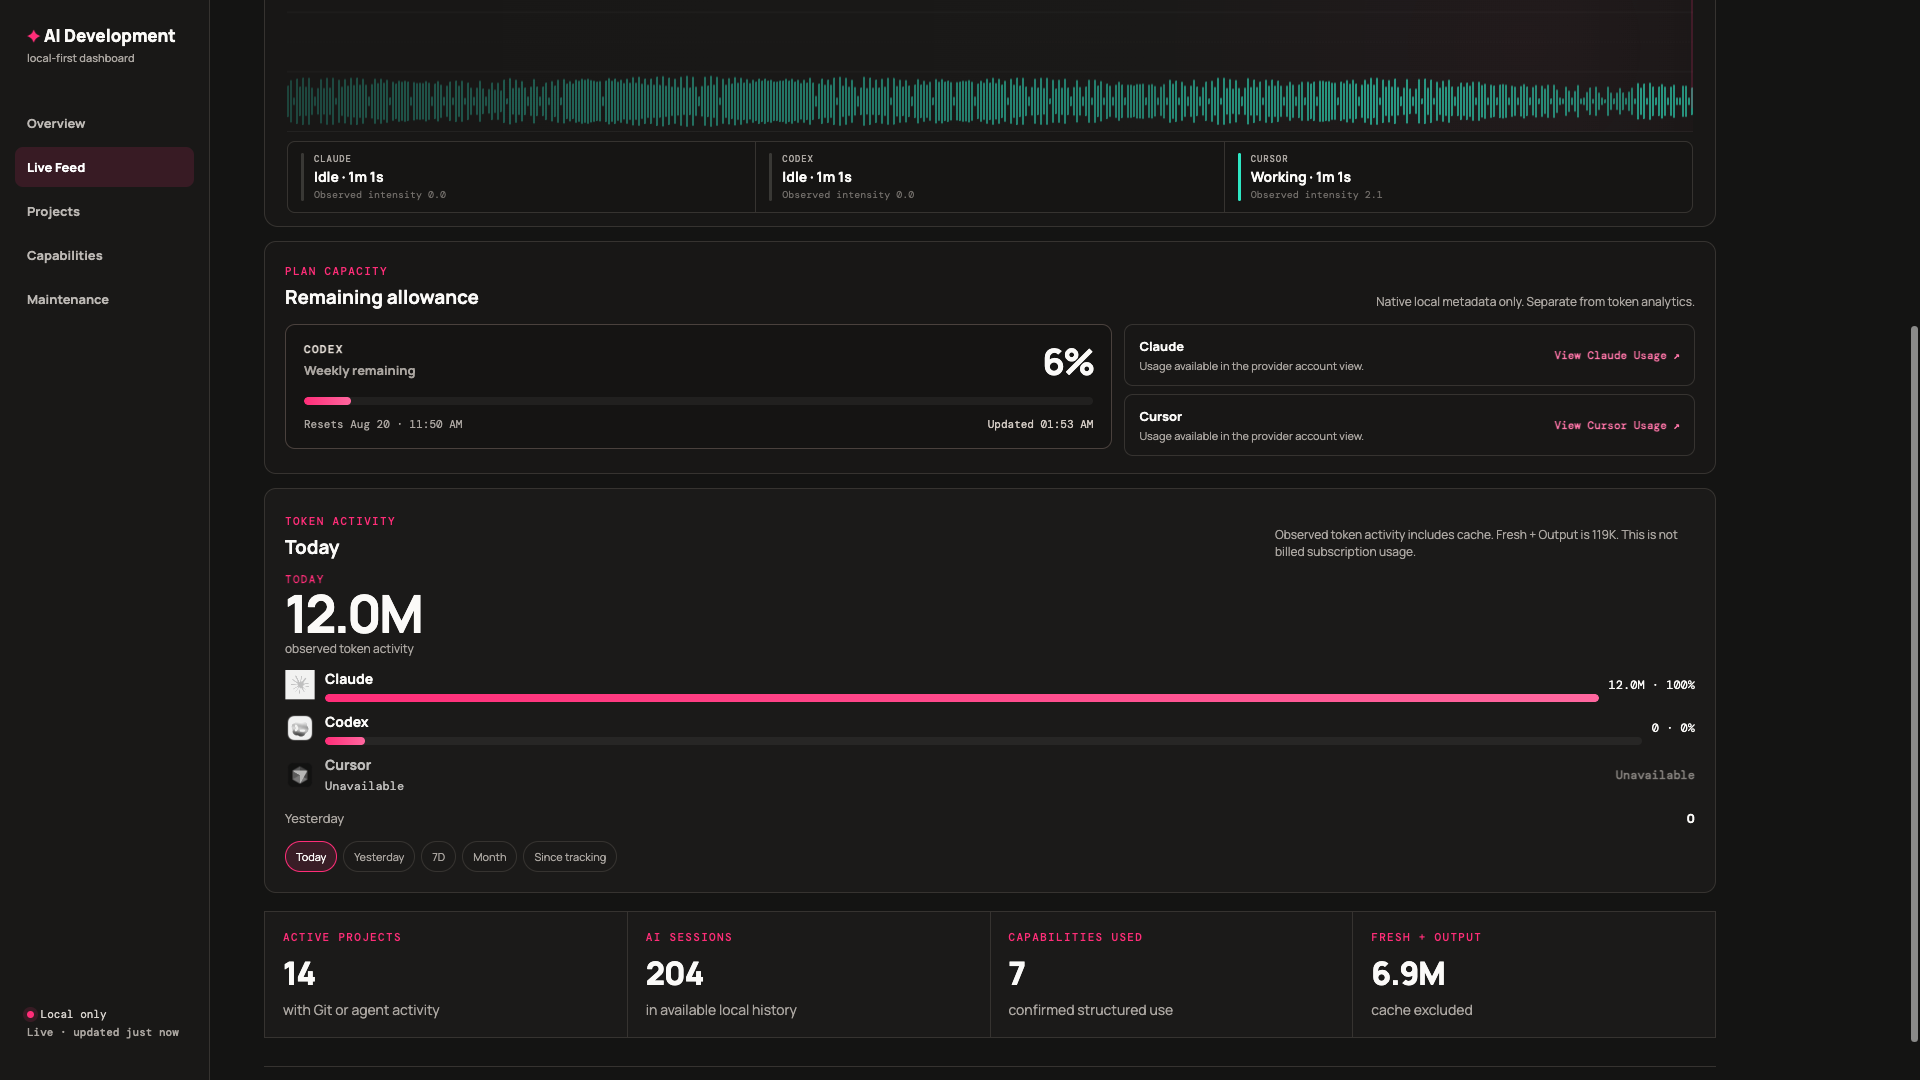
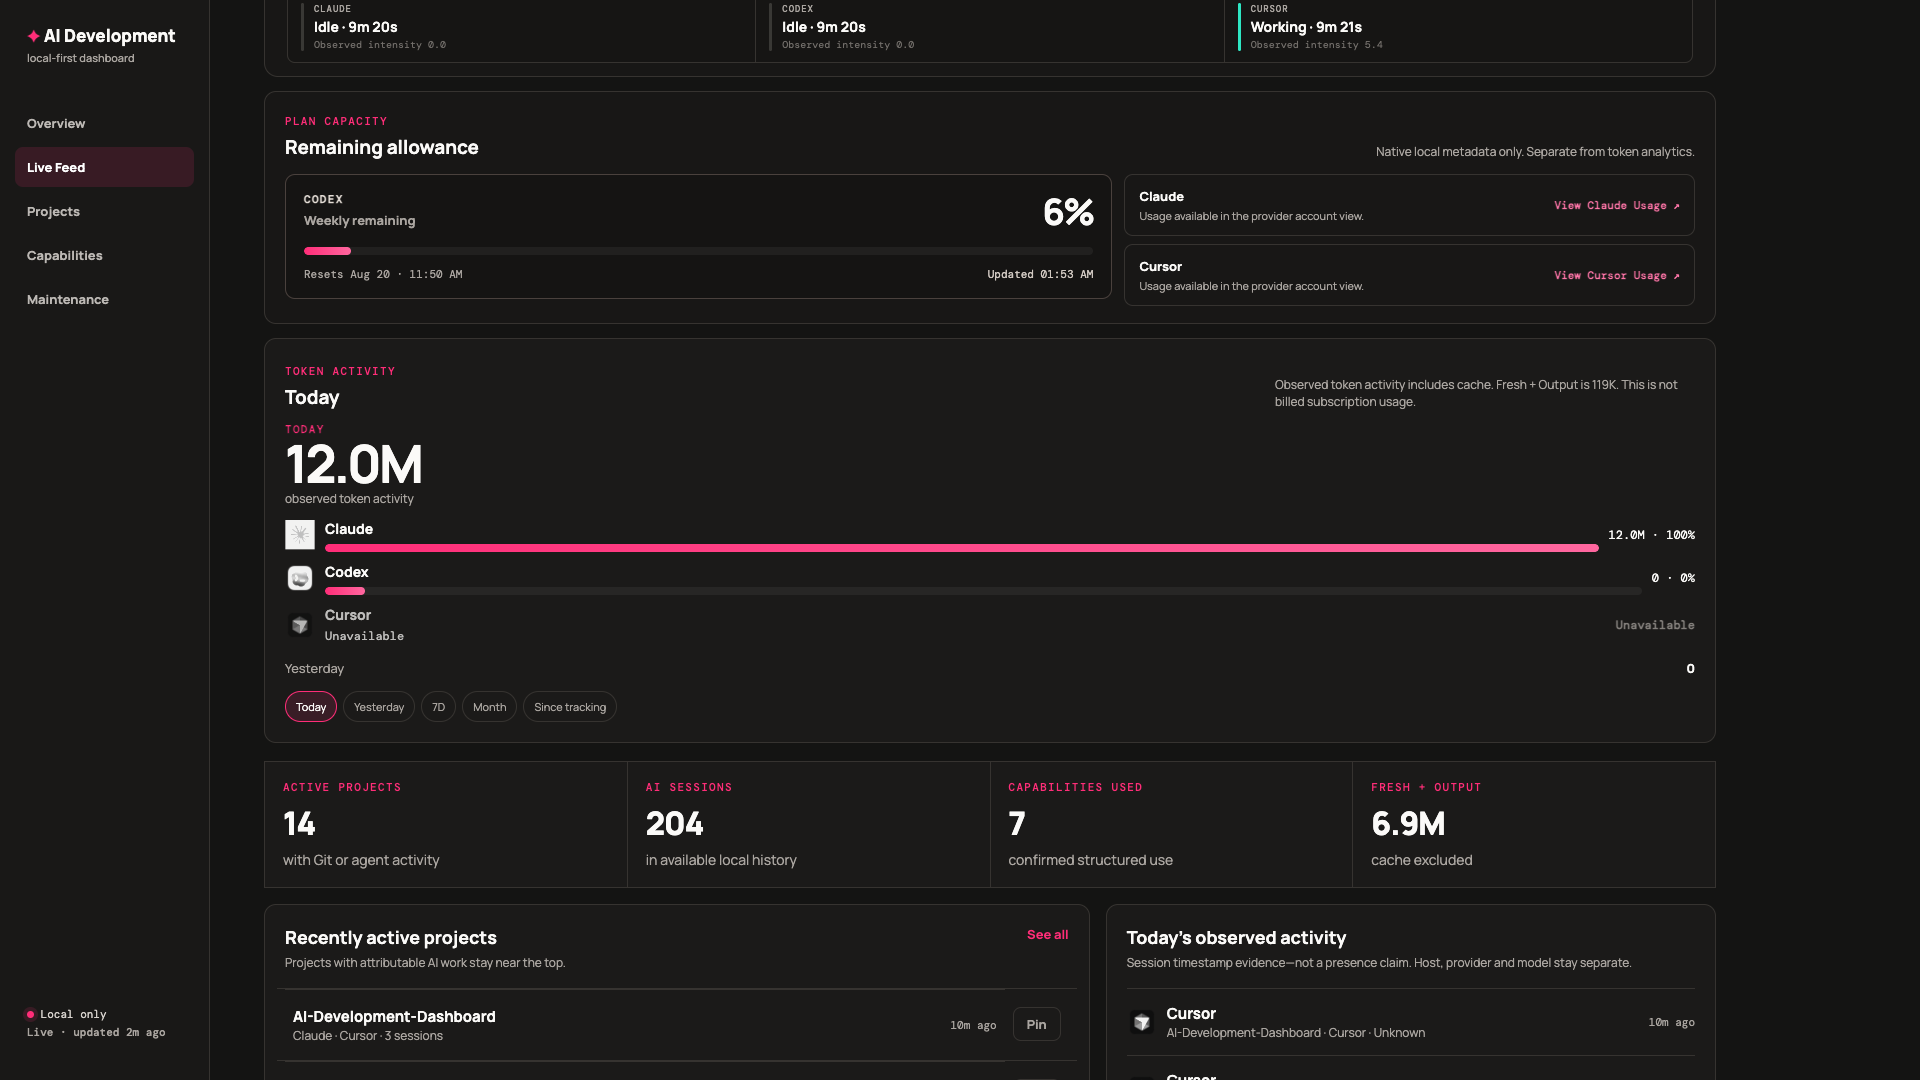
Use live README screenshots with real project names.
The owner confirmed project names are fine to publish in the Overview and Live Feed images.

diff --git a/docs/RELEASE-CHECKLIST.md b/docs/RELEASE-CHECKLIST.md
@@ -12,7 +12,7 @@
 
 - [x] Review the entire reachable Git history, not only the latest tree, for generated local analytics or private information. 2026-08-15: 19 commits scanned; no `.env`, `.dashboard-data`, handoff files, API keys, or private-key material in tracked history. Owner absolute paths are not present in tracked JS/HTML/CSS/JSON. Remaining public blockers are a true fresh-clone machine run and the visibility switch — not history remediation.
 - [ ] Re-run privacy tests and manually inspect Share Stack, Manifest, Setup Prompt, Private Backup warnings, and every Share Story slide.
-- [x] Review screenshots and article images for private project names, prompts, notes, paths, credentials, and machine identifiers. Current README screenshot shows live telemetry without project names. Do not replace it with an owner-machine Overview that lists private projects.
+- [x] Review screenshots and article images for private project names, prompts, notes, paths, credentials, and machine identifiers. Owner confirmed project names are fine to publish in README screenshots. Do not include prompts, notes, paths, credentials, or machine identifiers.
 - [x] Choose and add an explicit license (MIT, 2026-08-15).
 - [x] Re-check README, architecture, metrics, source discovery, limitations, contributing, privacy, and security documentation.
 - [ ] Confirm a fresh clone: `npm install` → `npm start` → configure project root → scan → dashboard. macOS needs Node 20+ and Git. Missing Claude/Codex/Cursor must degrade, not crash. Automated coverage exists for empty roots and missing Dropbox; a clean-machine run is still required before public.
